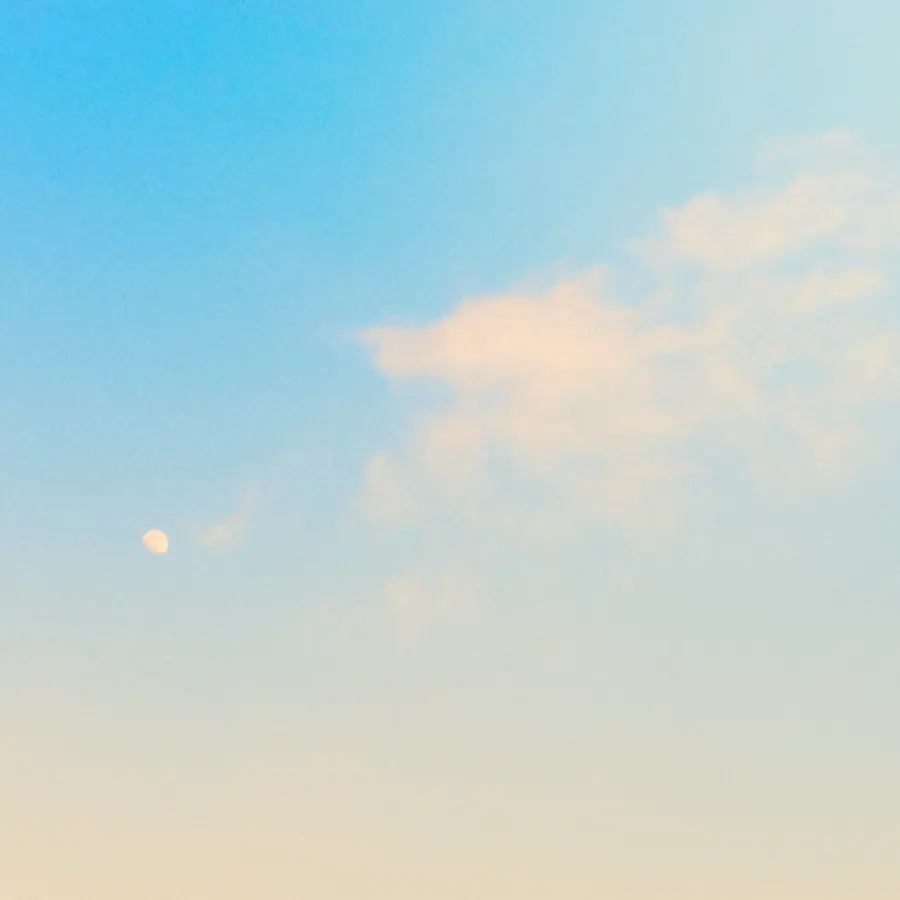
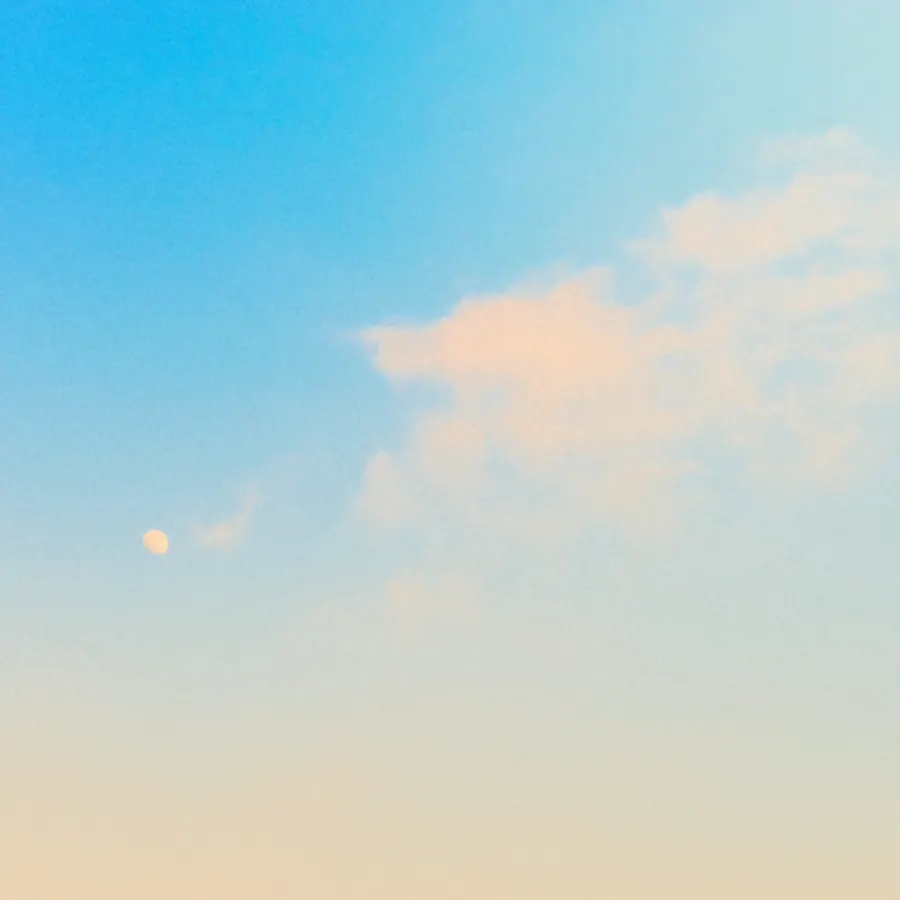
Brighten the hero sky and soften the header and footer

Changed region(s): [[0.0, 0.0, 0.5911, 0.3733]]

diff --git a/src/app/components/header/header.component.scss b/src/app/components/header/header.component.scss
@@ -1,7 +1,7 @@
 :host {
-  --header-bg: rgb(207 230 220 / 0.6);
+  --header-bg: rgb(211 226 219 / 0.6);
   --header-shadow: 0 4px 18px rgb(10 14 23 / 0.12);
-  --menu-bg: rgb(207 230 220 / 0.97);
+  --menu-bg: rgb(211 226 219 / 0.97);
   --menu-shadow: 0 10px 25px rgb(10 14 23 / 0.15);
 
   display: block;
@@ -193,9 +193,9 @@
 }
 
 :host-context([data-theme='dark']) {
-  --header-bg: rgb(19 37 31 / 0.6);
+  --header-bg: rgb(22 34 30 / 0.6);
   --header-shadow: 0 8px 24px rgb(0 0 0 / 0.5);
-  --menu-bg: rgb(19 37 31 / 0.97);
+  --menu-bg: rgb(22 34 30 / 0.97);
   --menu-shadow: 0 10px 25px rgb(0 0 0 / 0.6);
 
   .nav-button {

diff --git a/src/app/components/footer/footer.component.scss b/src/app/components/footer/footer.component.scss
@@ -1,5 +1,5 @@
 .footer {
-  --footer-bg: #cfe6dc;
+  --footer-bg: #d3e2db;
   --footer-text: var(--ink);
   --footer-muted: #34414f;
 
@@ -11,7 +11,7 @@
 
 :host-context([data-theme='dark']) .footer {
   --focus: var(--c-cyan);
-  --footer-bg: #13251f;
+  --footer-bg: #16221e;
   --footer-text: var(--on-dark);
   --footer-muted: var(--on-dark-muted);
 }

diff --git a/src/app/pages/home/home.component.scss b/src/app/pages/home/home.component.scss
@@ -1,7 +1,7 @@
 .hero-backdrop {
   --focus: #1f3a52;
   --hero-art: url('/assets/images/web/hero-day.webp');
-  --hero-sky: #80cce9;
+  --hero-sky: #66c7e9;
   --hero-pos: center;
   --hero-wash: none;
   --hero-tint: linear-gradient(transparent, transparent);
